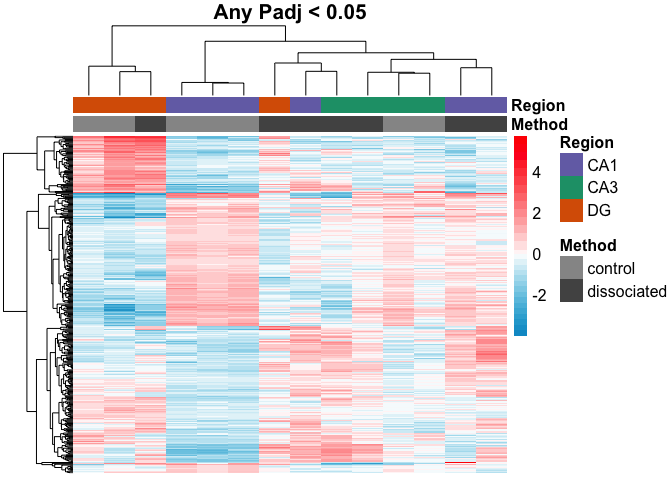
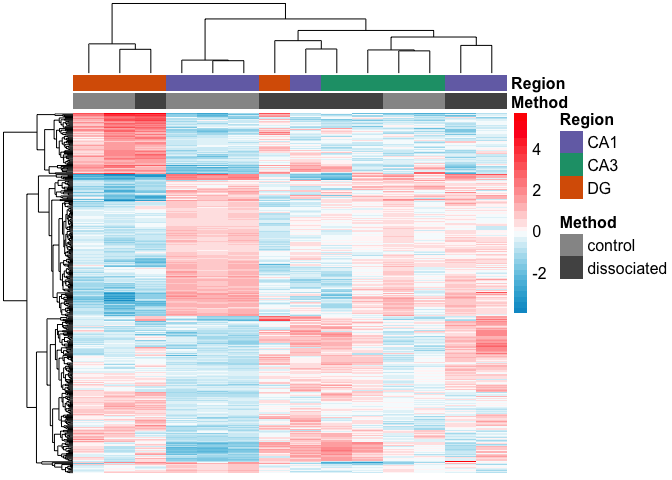
new heatmap

diff --git a/markdownfiles/01_DissociationTest.md b/markdownfiles/01_DissociationTest.md
@@ -128,6 +128,8 @@ subseting the data to identify genes of interest?
 
 ![](../figures/01_dissociationtest/HeatmapPadj-1.png)
 
+![](../figures/01_dissociationtest/HeatmapPvalue-1.png)
+
 This shows how strongly correlated the samples are. Even across brain
 regions, correlation is super fucking hight.
 
